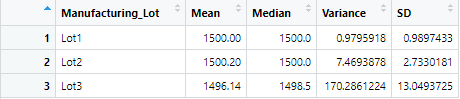
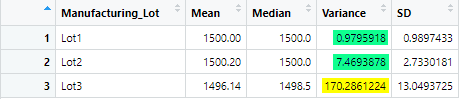
Deliverable 2 Submission

Changed region(s): [[0.7, 0.5455, 0.8522, 0.7273], [0.7, 0.7879, 0.8522, 0.9394], [0.7, 0.303, 0.8522, 0.4545]]

diff --git a/README.md b/README.md
@@ -1,7 +1,7 @@
 # MechaCar Statistical Analysis
 
 ## Linear Regression to Predict MPG
-#### **Summary Statistics:**
+#### **Summary:**
 
 ![MechaCar_mpg_linear_regression_summary](https://user-images.githubusercontent.com/90863226/148660153-2de50ba6-e58a-45ee-b83c-2e37906f3a88.png)
 
@@ -13,3 +13,14 @@
 
 3. This linear model will effectively predict the mpg of MechaCar prototypes because the r-value of .71 indicates a strong positive correlation between the variables and the MPG.
 
+
+## Summary Statistics on Suspension Coils
+#### **Total Summary:**
+![total_summary_table](https://user-images.githubusercontent.com/90863226/148662079-488e91e4-c128-4257-a058-eb62f2590efe.png)
+
+#### **Lot Summary:**
+![lot_summary_table](https://user-images.githubusercontent.com/90863226/148662080-5861781e-a32b-406e-933f-284c0c241474.png)
+
+#### **Results:**
+
+When looking at the summary statistics for the supsension coils in total the variance does not exceed the design specifications of 100 pounds per square inch. However, when you break these statistics down and group them by lot only lots 1 and 2 meet the design specifications for having a variance of less than 100 pounds per square inch.  Lot 3 has a variance of 170.3, which is well above the 100 pounds per square inch design specification.
